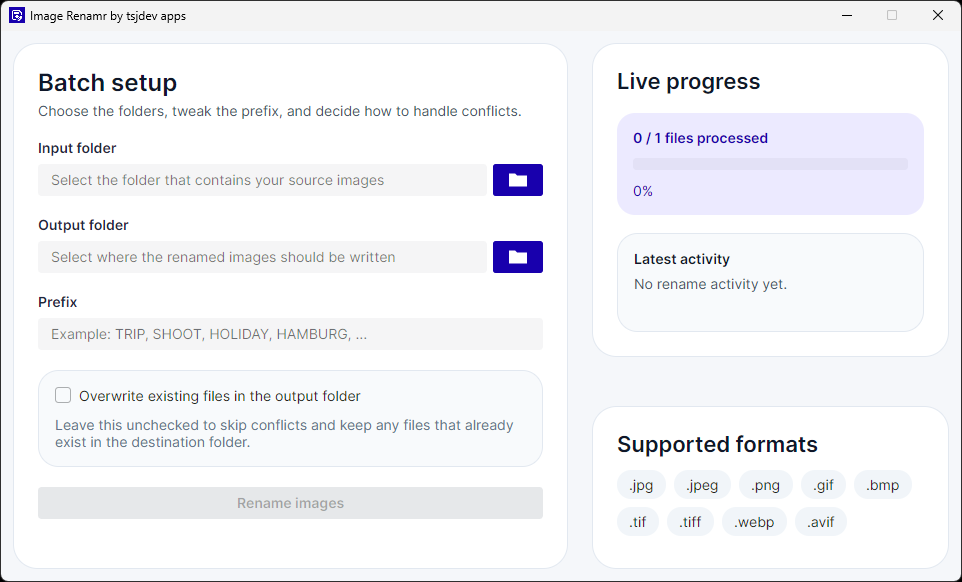
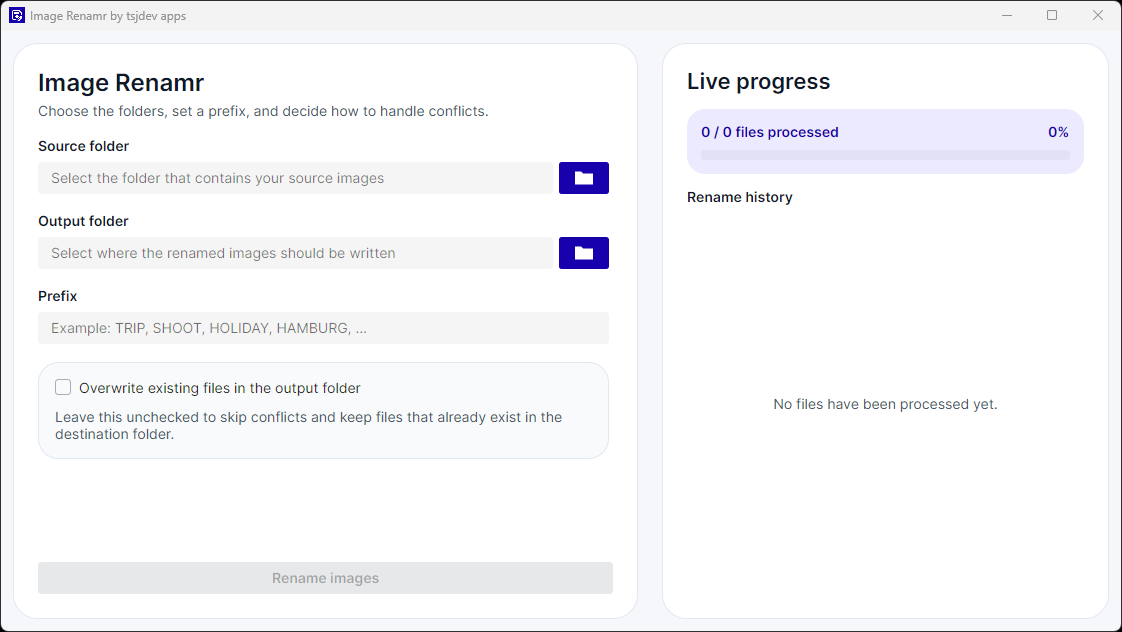
Refresh README and app screenshots
Update the README to reflect the current .NET 10 UI, live rename history, localization, theming, and expanded test coverage. Replace the screenshots so the documentation matches the latest two-panel workflow and progress-summary experience.

diff --git a/README.md b/README.md
@@ -1,6 +1,6 @@
 # Image Renamr
 
-Image Renamr is a cross-platform desktop app for renaming entire folders of images without turning the task into a script. Built with Avalonia on .NET, it focuses on a practical batch workflow: choose a source folder, pick an output folder, set a prefix, decide how conflicts should be handled, and export renamed copies with live progress feedback.
+Image Renamr is a cross-platform desktop app for renaming entire folders of images without turning the task into a script. Built with Avalonia on .NET 10, it offers a focused two-panel workflow: configure a batch on the left and follow every processed file in the live progress history on the right.
 
 ![Illustrated header for ImageRenamr](docs/header.jpg)
 
@@ -13,30 +13,35 @@ The project is aimed at everyday image-organization jobs such as preparing trave
 - Use a shared prefix with automatic zero-padded sequence numbers
 - Preserve the original file format of every copied image
 - Skip or overwrite existing files in the output folder
-- Track progress through live status updates and completion summaries
+- Track processed files through a live, scrollable rename history
+- See original and generated file names for every handled image
+- Distinguish renamed, overwritten, skipped, and failed files at a glance
+- Finish every batch with a dedicated summary entry
+- Follow the operating system's light or dark appearance
+- Use the complete interface in English or German, selected from the OS UI language
 - Support `.jpg`, `.jpeg`, `.png`, `.gif`, `.bmp`, `.tif`, `.tiff`, `.webp`, and `.avif`
 
 > Note: the current rename workflow processes files from the selected input folder only. It does not recurse into nested subfolders.
 
 ## Screenshots
 
-### Batch setup
+### Rename configuration
 
 ![ImageRenamr batch setup screen](docs/screenshot-01.png)
 
-The main screen keeps the workflow simple: select an input folder, choose an output folder, enter a prefix, and decide whether existing files should be overwritten.
+The main screen follows the same visual language as Image Sortr. Rename configuration and live progress share the available height, while the start button remains anchored at the bottom of the configuration card.
 
 ### Live progress during a running batch
 
 ![ImageRenamr live progress while renaming images](docs/screenshot-02.png)
 
-While the batch is running, Image Renamr shows overall progress, the latest file activity, and a clear status message so you can see what the app is doing at a glance.
+While a batch is running, Image Renamr updates the processed and total file counts, percentage, and progress bar after each file. The virtualized history keeps the newest result visible while remaining efficient for large folders.
 
 ### Completion summary
 
 ![ImageRenamr completion summary after renaming images](docs/screenshot-03.png)
 
-After the batch finishes, the same workspace shows the final summary, including copied and skipped files, without forcing you into a separate report view.
+Each history row shows a non-color status marker, localized status text, the original file name, and the generated target name where applicable. After processing, a final summary row reports the copied and skipped totals without opening a separate report view.
 
 ## Rename Workflow
 
@@ -44,7 +49,9 @@ After the batch finishes, the same workspace shows the final summary, including 
 2. Choose where the renamed copies should be written.
 3. Enter the prefix that should be used for the generated file names.
 4. Decide whether to skip or overwrite existing output files.
-5. Start the batch and follow the live progress panel.
+5. Start the batch and follow each result in the live progress panel.
+
+Starting another batch clears the previous progress values and rename history. Existing targets are either skipped or overwritten according to the selected option; file-system or permission failures remain visible in the history before the batch stops.
 
 ## Supported Formats
 
@@ -61,6 +68,17 @@ Image Renamr currently accepts the following input file types:
 - `.avif`
 
 Renamed output files keep the original file extension and are written as copies into the selected output folder.
+
+## Localization and Themes
+
+Image Renamr uses standard .NET resources with English as the neutral fallback language:
+
+- English: `src/ImageRenamr.App/Resources/Localization/Strings.resx`
+- German: `src/ImageRenamr.App/Resources/Localization/Strings.de.resx`
+
+The application reads `CultureInfo.CurrentUICulture` at startup. German regional cultures such as `de-DE`, `de-AT`, and `de-CH` use the German interface; unsupported UI cultures fall back to English.
+
+The Avalonia theme follows the operating system's light or dark preference. Image Renamr retains its purple `#1800AD` accent color in both variants.
 
 ## Getting Started
 
@@ -96,15 +114,15 @@ There is no separate lint command. Repository analyzers and code-style checks ru
 
 ## Project Structure
 
-- `src/ImageRenamr.App`: Avalonia desktop UI shell
-- `src/ImageRenamr.Core`: rename pipeline, models, and file-handling logic
-- `tests/ImageRenamr.Tests`: xUnit tests for the rename service and the window view model
+- `src/ImageRenamr.App`: Avalonia desktop UI, localization resources, and MVVM presentation state
+- `src/ImageRenamr.Core`: rename pipeline, structured progress models, validation, and file handling
+- `tests/ImageRenamr.Tests`: xUnit tests for the rename service, progress history, and localization
 
 The solution intentionally keeps the UI thin. Avalonia-specific code lives in the app project, while the rename workflow, validation, file handling, and progress reporting live in the core library.
 
 ## Tech Stack
 
-- [.NET](https://dotnet.microsoft.com/)
+- [.NET 10](https://dotnet.microsoft.com/)
 - [Avalonia UI](https://avaloniaui.net/)
 - [Semi.Avalonia](https://github.com/irihitech/Semi.Avalonia)
 - [CommunityToolkit.Mvvm](https://learn.microsoft.com/dotnet/communitytoolkit/mvvm/)
@@ -112,7 +130,7 @@ The solution intentionally keeps the UI thin. Avalonia-specific code lives in th
 
 ## Quality
 
-The repository includes automated coverage for both the batch rename service and the window view model. Tests verify deterministic ordering, file handling, overwrite rules, prefix validation, progress reporting, and completion-state behavior.
+The repository includes automated coverage for the batch rename service, window view model, structured history entries, and localization resources. Tests verify deterministic ordering, file handling, overwrite rules, prefix validation, percentage calculation, reset and summary behavior, UI-thread progress marshaling, German regional cultures, singular/plural formatting, and English fallback.
 
 ## License
 
